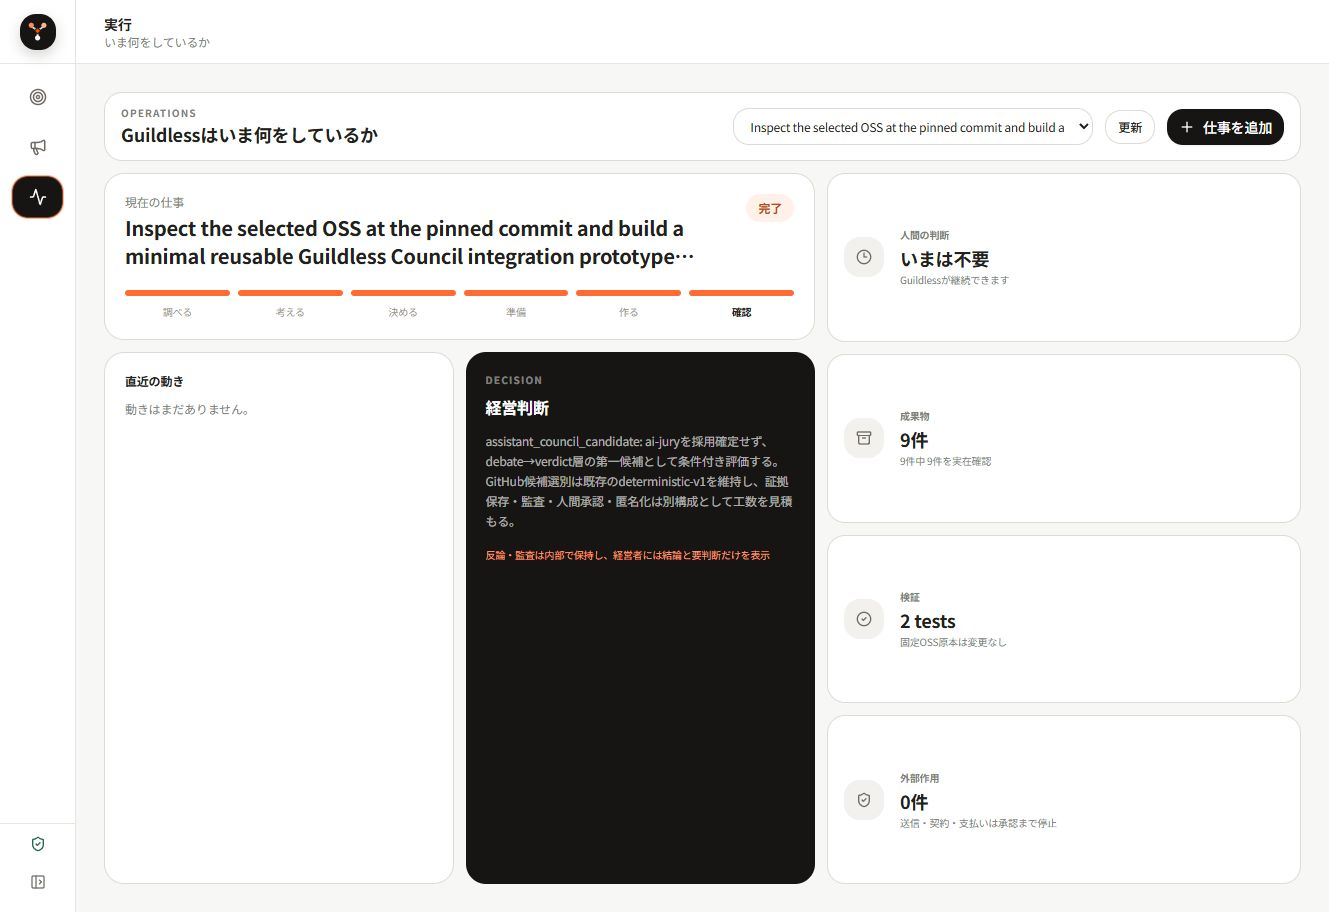
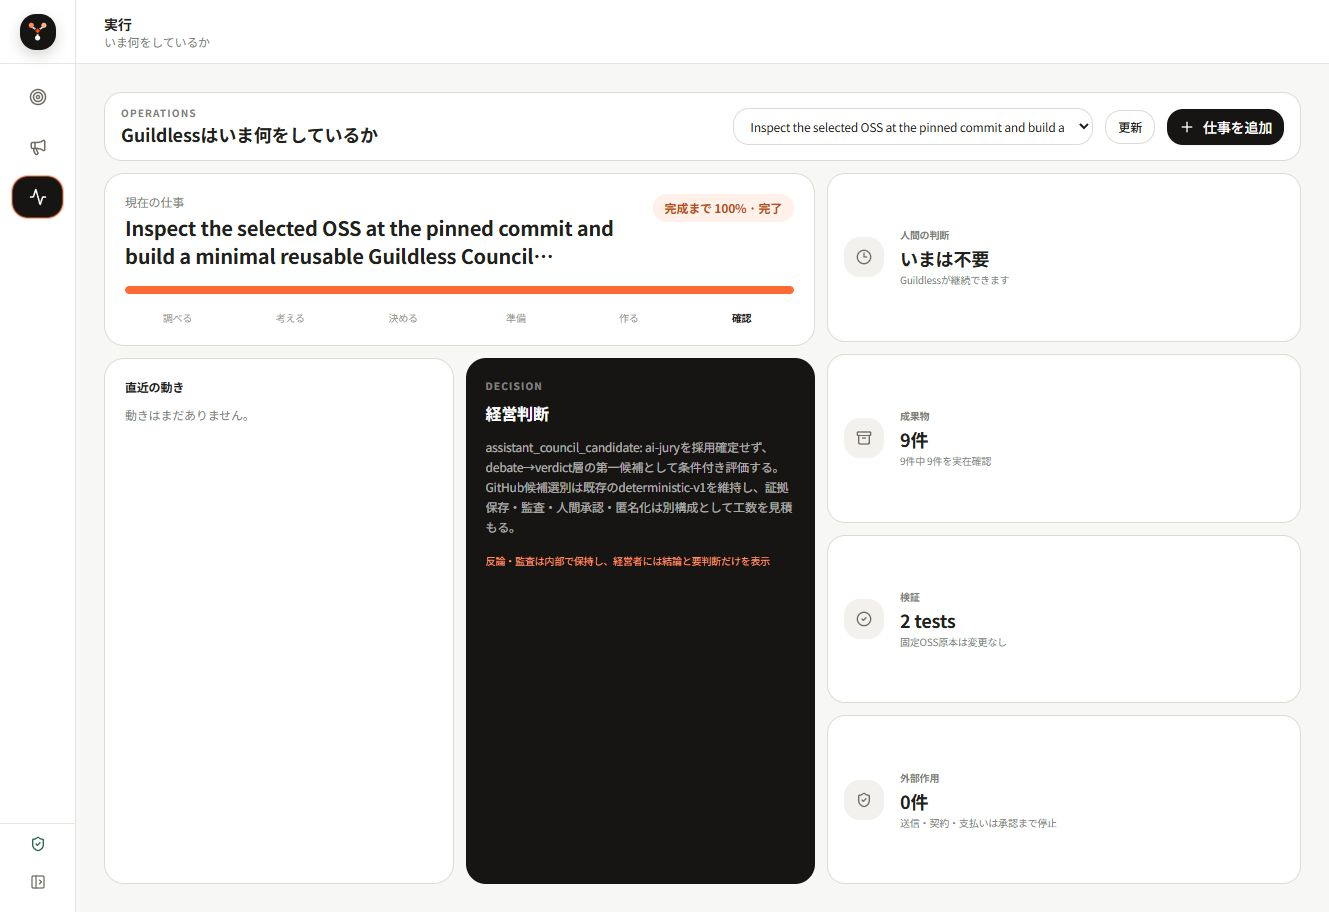
Show deterministic zero-to-one completion progress

Changed region(s): [[0.0926, 0.2149, 0.617, 0.6447]]

diff --git a/frontend/src/ceo-home.tsx b/frontend/src/ceo-home.tsx
@@ -1,5 +1,5 @@
-import { FormEvent, ReactNode, useEffect, useRef, useState } from 'react'
-import { Activity, CheckCircle2, CircleStop, Clock3, LoaderCircle, Mic, Send, ShieldCheck, Target } from 'lucide-react'
+import { FormEvent, useEffect, useRef, useState } from 'react'
+import { CircleStop, LoaderCircle, Mic, Send, ShieldCheck } from 'lucide-react'
 import { Button } from '@/components/ui/button'
 
 type Job = { job_id: string; status: string; objective: string; updated_at: string; approval_required: boolean; external_actions_performed: boolean }
@@ -14,6 +14,23 @@ const statusCopy: Record<string, string> = {
   queued: '開始待ち', researching: 'OSSを調査中', analysis_researching: '判断材料を収集中', analysis_proposing: '選択肢を作成中',
   analysis_criticizing: '見落としを確認中', analysis_judging: '経営判断を比較中', cloning: '採用OSSを準備中', implementing: '成果物を作成中',
   verifying: '結果を検証中', completed: '完了', degraded: '一部機能で完了', partial: '確認が必要', awaiting_approval: '承認待ち', failed: '安全停止',
+}
+
+function completionPercent(status?: string) {
+  const progress: Record<string, number> = {
+    queued: 5, researching: 15, analysis_researching: 25, analysis_proposing: 35, analysis_criticizing: 45,
+    analysis_judging: 55, cloning: 65, implementing: 80, verifying: 92, awaiting_approval: 95,
+    partial: 90, completed: 100, degraded: 100, failed: 0,
+  }
+  return status ? progress[status] ?? 10 : 0
+}
+
+function nextMove(progress: number) {
+  if (progress === 0) return '達成したい状態を一文で入力する'
+  if (progress < 55) return '選択肢とリスクを比べ、実行案を一つに絞る'
+  if (progress < 80) return '選んだ方法を、実行できる仕事へ分解する'
+  if (progress < 100) return '成果物と根拠を検証し、人間が承認する'
+  return '結果を確認し、次の0→1目標を設定する'
 }
 
 async function requestJson<T>(url: string, init?: RequestInit): Promise<T> {
@@ -40,11 +57,11 @@ export function CeoHome({ jobs, selectedJob, onDelegate }: {
   const chunksRef = useRef<Blob[]>([])
 
   const current = jobs[0]
-  const activeCount = jobs.filter(item => !['completed', 'degraded', 'partial', 'awaiting_approval', 'failed'].includes(item.status)).length
   const approvalCount = jobs.filter(item => item.approval_required || item.status === 'awaiting_approval').length
-  const completedCount = jobs.filter(item => item.status === 'completed').length
   const answer = run?.final_result?.final_decision
-  const currentValue = !current ? '未設定' : current.status === 'completed' ? '完了' : current.approval_required || current.status === 'awaiting_approval' ? '要判断' : '実行中'
+  const currentStatus = selectedJob?.status || current?.status
+  const progress = completionPercent(currentStatus)
+  const phase = progress < 25 ? 0 : progress < 55 ? 1 : progress < 92 ? 2 : 3
 
   useEffect(() => {
     if (!run?.run_id || terminalCouncilStates.has(run.status)) return
@@ -111,31 +128,29 @@ export function CeoHome({ jobs, selectedJob, onDelegate }: {
     } catch (reason) { setError(reason instanceof Error ? reason.message : '相談できませんでした'); setAsking(false) }
   }
 
-  return <div className='grid h-[calc(100svh-8rem)] min-h-[620px] grid-rows-[auto_1fr_auto] gap-3 overflow-hidden'>
-    <section className='grid grid-cols-4 gap-3'>
-      <Kpi icon={<Target />} label='最優先' value={currentValue} detail={current?.objective || '会社目標を入力'} />
-      <Kpi icon={<Activity />} label='売上' value='未接続' detail='顧客データなし' muted />
-      <Kpi icon={<Clock3 />} label='AI稼働' value={`${activeCount}件`} detail={current ? statusCopy[current.status] || current.status : '待機中'} />
-      <Kpi icon={<CheckCircle2 />} label='要判断' value={`${approvalCount}件`} detail={`完了 ${completedCount}件`} alert={approvalCount > 0} />
-    </section>
+  return <div className='grid h-[calc(100svh-8rem)] min-h-[620px] grid-rows-[1fr_auto] gap-3 overflow-hidden'>
+    <section className='grid min-h-0 gap-3 md:grid-cols-[1.3fr_.7fr]'>
+      <div className='flex min-h-0 flex-col rounded-[22px] border border-[#dedbd4] bg-white p-6'>
+        <div className='flex items-start justify-between gap-4'><div><p className='text-[10px] font-semibold tracking-[.14em] text-[#817d76]'>0 → 1 MAP</p><h1 className='mt-1 text-2xl font-semibold tracking-[-.045em]'>頭の中を、実行できる形にする</h1></div><span className='rounded-full bg-[#edf5f1] px-3 py-1.5 text-xs font-medium text-[#276453]'>外部作用 0</span></div>
 
-    <section className='grid min-h-0 gap-3 md:grid-cols-[1.15fr_.85fr]'>
-      <div className='flex min-h-0 flex-col rounded-[20px] border border-[#dedbd4] bg-white p-5'>
-        <div className='flex items-center justify-between'><div><p className='text-[10px] font-semibold tracking-[.12em] text-[#817d76]'>TODAY</p><h1 className='mt-1 text-2xl font-semibold tracking-[-.04em]'>今日、会社を前に進めること</h1></div><span className='rounded-full bg-[#edf5f1] px-3 py-1.5 text-xs font-medium text-[#276453]'>安全運転</span></div>
-        <div className='mt-5 flex min-h-0 flex-1 flex-col justify-center rounded-2xl bg-[#f5f3ef] p-5'>
-          <p className='text-xs font-semibold text-[#817d76]'>現在の優先事項</p>
-          <p className='mt-2 line-clamp-3 text-xl font-semibold leading-8'>{current?.objective || 'まだ会社目標がありません。下から相談または仕事を入力してください。'}</p>
-          <div className='mt-4 flex items-center gap-2 text-sm text-[#6f6b64]'><span className='size-2 rounded-full bg-[#ff6b32]' />{current ? statusCopy[selectedJob?.status || current.status] || '処理中' : 'Guildlessは待機中'}</div>
+        <div className='mt-6 rounded-2xl bg-[#f5f3ef] p-5'>
+          <div className='flex items-end justify-between gap-4'><div><p className='text-xs font-semibold text-[#817d76]'>完成を100%とした現在地</p><p className='mt-1 text-sm font-medium'>{statusCopy[currentStatus || ''] || '目標待ち'}</p></div><p className='text-5xl font-semibold tracking-[-.08em]'>{progress}<span className='ml-1 text-base text-[#817d76]'>%</span></p></div>
+          <div className='mt-4 h-3 overflow-hidden rounded-full bg-white'><div className='h-full rounded-full bg-[#ff6b32] transition-[width] duration-500' style={{ width: `${progress}%` }} /></div>
+          <div className='mt-5 grid grid-cols-4 gap-2'>{['目的', '判断', '実行', '検証'].map((label, index) => <div key={label} className={`rounded-xl border px-3 py-3 ${index === phase ? 'border-[#ff6b32] bg-white' : index < phase ? 'border-[#d7e5df] bg-[#edf5f1]' : 'border-transparent bg-white/60'}`}><div className='flex items-center gap-2'><span className={`grid size-6 place-items-center rounded-full text-[10px] font-semibold ${index <= phase ? 'bg-[#171513] text-white' : 'bg-[#e4e1da] text-[#817d76]'}`}>{index}</span><p className='text-xs font-semibold'>{label}</p></div><p className='mt-2 text-[10px] text-[#817d76]'>{progress === 100 || index < phase ? '完了' : index === phase ? '現在地' : '次へ'}</p></div>)}</div>
+        </div>
+
+        <div className='mt-4 grid min-h-0 flex-1 grid-cols-2 gap-3'>
+          <div className='min-h-0 rounded-2xl border border-[#dedbd4] p-4'><p className='text-[10px] font-semibold text-[#817d76]'>目的</p><p className='mt-2 line-clamp-4 text-sm font-semibold leading-6'>{current?.objective || '達成したい状態を入力してください。'}</p></div>
+          <div className='min-h-0 rounded-2xl border border-[#efc8b7] bg-[#fff6f1] p-4'><p className='text-[10px] font-semibold text-[#b94b1b]'>次の一手</p><p className='mt-2 text-sm font-semibold leading-6'>{nextMove(progress)}</p>{approvalCount > 0 && <p className='mt-2 text-[10px] text-[#b94b1b]'>人間の判断待ち {approvalCount}件</p>}</div>
         </div>
       </div>
 
       <div className='grid min-h-0 grid-rows-[1fr_auto] gap-3'>
-        <section className='flex min-h-0 flex-col rounded-[20px] bg-[#171513] p-5 text-white'>
-          <p className='text-[10px] font-semibold tracking-[.12em] text-white/45'>GUILDLESS NOW</p>
-          <h2 className='mt-2 text-lg font-semibold'>{asking ? '経営判断を作成中' : answer ? '回答ができました' : current ? statusCopy[selectedJob?.status || current.status] || '実行中' : '待機中'}</h2>
-          {asking ? <div className='grid flex-1 place-items-center'><LoaderCircle className='size-6 animate-spin text-[#ff7a45]' /></div> : answer ? <><p className='mt-3 min-h-0 flex-1 overflow-hidden text-sm leading-6 text-white/75'>{answer.decision}</p>{answer.next_action && <p className='mt-3 rounded-xl bg-white/[.07] p-3 text-xs leading-5'>{answer.next_action}</p>}</> : <p className='mt-3 line-clamp-5 text-sm leading-6 text-white/60'>{current?.objective || '入力を待っています。'}</p>}
+        <section className='flex min-h-0 flex-col rounded-[22px] bg-[#171513] p-6 text-white'>
+          <div className='flex items-start justify-between'><div><p className='text-[10px] font-semibold tracking-[.14em] text-white/45'>GUILDLESS NOW</p><h2 className='mt-2 text-lg font-semibold'>{asking ? '経営判断を作成中' : answer ? '回答ができました' : statusCopy[currentStatus || ''] || '待機中'}</h2></div><div className='grid size-16 place-items-center rounded-full border border-white/15 text-lg font-semibold'>{progress}%</div></div>
+          {asking ? <div className='grid flex-1 place-items-center'><LoaderCircle className='size-6 animate-spin text-[#ff7a45]' /></div> : answer ? <><p className='mt-5 min-h-0 flex-1 overflow-hidden text-sm leading-6 text-white/75'>{answer.decision}</p>{answer.next_action && <div className='mt-3 rounded-xl bg-white/[.07] p-3'><p className='text-[10px] text-white/45'>次の一手</p><p className='mt-1 text-xs leading-5'>{answer.next_action}</p></div>}</> : <div className='mt-5'><p className='text-[10px] text-white/45'>いま扱っているテーマ</p><p className='mt-2 line-clamp-7 text-sm leading-6 text-white/70'>{current?.objective || '入力を待っています。'}</p></div>}
         </section>
-        <section className='flex items-center gap-3 rounded-[18px] border border-[#cfe0d9] bg-[#edf5f1] px-4 py-3 text-[#276453]'><ShieldCheck className='size-5 shrink-0' /><div><p className='text-xs font-semibold'>外部作用 0</p><p className='text-[10px]'>送信・契約・支払いは承認まで停止</p></div></section>
+        <section className='flex items-center gap-3 rounded-[18px] border border-[#cfe0d9] bg-[#edf5f1] px-4 py-3 text-[#276453]'><ShieldCheck className='size-5 shrink-0' /><div><p className='text-xs font-semibold'>安全に停止できる状態</p><p className='text-[10px]'>送信・契約・支払いは承認まで行いません</p></div></section>
       </div>
     </section>
 
@@ -149,8 +164,4 @@ export function CeoHome({ jobs, selectedJob, onDelegate }: {
       {(error || voiceMessage) && <p className={`mt-1 px-2 text-[10px] ${error ? 'text-red-700' : 'text-[#817d76]'}`}>{error || voiceMessage}</p>}
     </form>
   </div>
-}
-
-function Kpi({ icon, label, value, detail, muted = false, alert = false }: { icon: ReactNode; label: string; value: string; detail: string; muted?: boolean; alert?: boolean }) {
-  return <div className={`min-w-0 rounded-[16px] border p-4 ${alert ? 'border-[#efc8b7] bg-[#fff6f1]' : 'border-[#dedbd4] bg-white'}`}><div className='flex items-center gap-2 text-[#817d76]'><span className={`[&>svg]:size-3.5 ${alert ? 'text-[#c44d19]' : ''}`}>{icon}</span><p className='text-[10px] font-semibold'>{label}</p></div><p className={`mt-2 whitespace-nowrap text-xl font-semibold tracking-[-.04em] ${muted ? 'text-[#9b9790]' : ''}`}>{value}</p><p className='mt-1 truncate text-[10px] text-[#817d76]' title={detail}>{detail}</p></div>
 }

diff --git a/frontend/src/guildless-app.tsx b/frontend/src/guildless-app.tsx
@@ -50,6 +50,15 @@ function stageIndex(status?: string) {
   return found < 0 ? 0 : found
 }
 
+function statusPercent(status?: string) {
+  const progress: Record<string, number> = {
+    queued: 5, researching: 15, analysis_researching: 25, analysis_proposing: 35, analysis_criticizing: 45,
+    analysis_judging: 55, cloning: 65, implementing: 80, verifying: 92, awaiting_approval: 95,
+    partial: 90, completed: 100, degraded: 100, failed: 0,
+  }
+  return status ? progress[status] ?? 10 : 0
+}
+
 export function GuildlessApp() {
   const [view, setView] = useState<View>('home')
   const [jobs, setJobs] = useState<Job[]>([])
@@ -138,7 +147,9 @@ function ExecutionView({ jobs, selectedId, onSelect, job, events, council, artif
   council: Record<string, any> | null; artifacts: Artifact[]; audit: Record<string, any> | null; onNew: () => void; onRefresh: () => void
 }) {
   const selected = jobs.find(item => item.job_id === selectedId)
-  const currentStage = stageIndex(job?.status || selected?.status)
+  const currentStatus = job?.status || selected?.status
+  const currentStage = stageIndex(currentStatus)
+  const completion = statusPercent(currentStatus)
   const decision = council?.decision || {}
   const verifiedArtifacts = artifacts.filter(item => item.exists).length
   const sourceUnchanged = audit?.verification?.source_unchanged
@@ -155,8 +166,9 @@ function ExecutionView({ jobs, selectedId, onSelect, job, events, council, artif
     <section className='grid min-h-0 gap-3 lg:grid-cols-[1.2fr_.8fr]'>
       <div className='grid min-h-0 grid-rows-[auto_1fr] gap-3'>
         <div className='rounded-[20px] border border-[#dedbd4] bg-white p-5'>
-          <div className='flex items-start justify-between gap-4'><div className='min-w-0'><p className='text-xs text-[#817d76]'>現在の仕事</p><h2 className='mt-1 line-clamp-2 text-xl font-semibold leading-7'>{selected?.objective || 'まだ仕事がありません'}</h2></div><span className='shrink-0 rounded-full bg-[#fff1e9] px-3 py-1.5 text-xs font-semibold text-[#b94b1b]'>{statusLabels[job?.status || selected?.status || ''] || '待機中'}</span></div>
-          <div className='mt-5 grid grid-cols-6 gap-2'>{workStages.map(([id, label], index) => <div key={id} className='min-w-0'><div className={`h-1.5 rounded-full ${index <= currentStage ? 'bg-[#ff6b32]' : 'bg-[#e8e5df]'}`} /><p className={`mt-2 truncate text-center text-[10px] ${index === currentStage ? 'font-semibold text-[#171513]' : 'text-[#99958d]'}`}>{label}</p></div>)}</div>
+          <div className='flex items-start justify-between gap-4'><div className='min-w-0'><p className='text-xs text-[#817d76]'>現在の仕事</p><h2 className='mt-1 line-clamp-2 text-xl font-semibold leading-7'>{selected?.objective || 'まだ仕事がありません'}</h2></div><span className='shrink-0 rounded-full bg-[#fff1e9] px-3 py-1.5 text-xs font-semibold text-[#b94b1b]'>完成まで {completion}% · {statusLabels[currentStatus || ''] || '待機中'}</span></div>
+          <div className='mt-4 h-2 overflow-hidden rounded-full bg-[#ece9e3]'><div className='h-full rounded-full bg-[#ff6b32]' style={{ width: `${completion}%` }} /></div>
+          <div className='mt-4 grid grid-cols-6 gap-2'>{workStages.map(([id, label], index) => <div key={id} className='min-w-0'><p className={`truncate text-center text-[10px] ${index === currentStage ? 'font-semibold text-[#171513]' : 'text-[#99958d]'}`}>{label}</p></div>)}</div>
         </div>
 
         <div className='grid min-h-0 gap-3 md:grid-cols-2'>

diff --git a/UI_SOURCES.md b/UI_SOURCES.md
@@ -39,6 +39,10 @@ design tokens from `cloudflare/cloudflare-os` at a fixed commit.
   automatically; the user may edit or cancel it.
 - Retained design rule: neutral enterprise surfaces with the orange brand color
   reserved for intent, focus, and primary action.
+- Applied in the current CEO cockpit: fixed-height app shell, three-item primary
+  navigation, progress/state surfaces, one primary composer, and progressive
+  disclosure that keeps Council criticism and audit detail out of the CEO's
+  default decision path.
 
 Cloudflare OS is not shipped as a separate product or screen. These parts are
 integrated into the single Guildless CEO desk.
